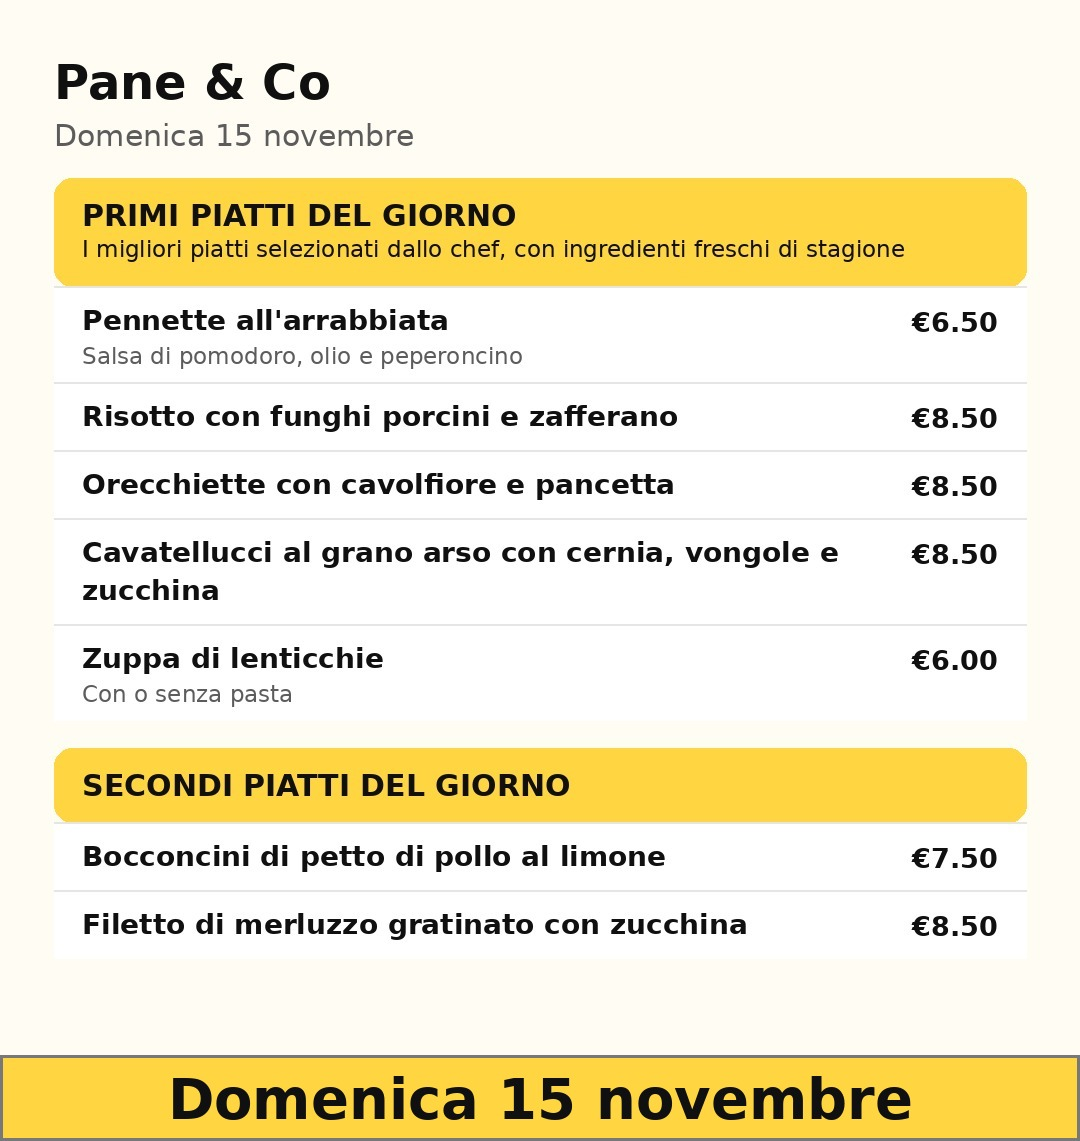
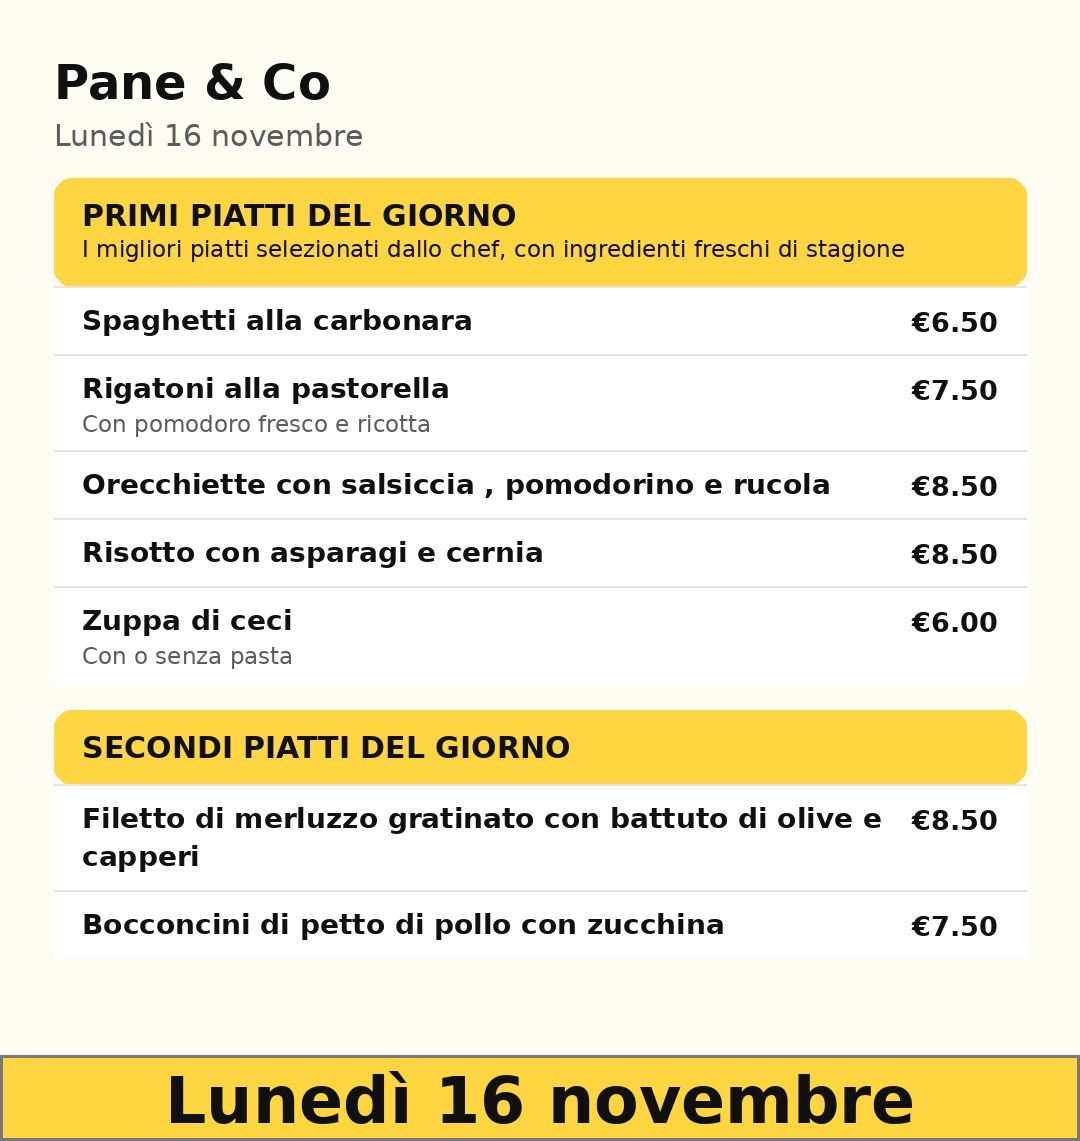
Aggiorna foto rosticcerie

diff --git a/output/rosticceria_ios/Rosticcerie.html b/output/rosticceria_ios/Rosticcerie.html
@@ -538,7 +538,7 @@
     }
   </style>
   <script>
-    const PANELS = [{"name": "Fantasia", "card_label": "Fantasia", "detail_title": "Fantasia", "logo": "../../Logo-Fantasia.jpg?v=1794762252", "phone_display": "080-405.41.39", "phone_tel": "0804054139", "image": "Fantasia.jpg?v=1794762252", "error": "", "updated": false, "updated_label": "Sabato 14 novembre", "card_reference": "14 nov", "menu_date": "2026-11-14", "url": "https://www.facebook.com/RosticceriaFantasia", "counter_enabled": true, "badge_new": false}, {"name": "Cibària", "card_label": "Cibària", "detail_title": "Cibària", "logo": "../../Logo-Cibaria.jpg?v=1794762252", "phone_display": "080-645.07.99", "phone_tel": "0806450799", "image": "Cibaria.jpg?v=1794762252", "error": "", "updated": false, "updated_label": "Giovedì 5 novembre", "card_reference": "5 nov", "menu_date": "2026-11-05", "url": "https://www.facebook.com/cibaria.asporto", "counter_enabled": true, "badge_new": false}, {"name": "Impastamò", "card_label": "Impastamò", "detail_title": "Impastamò", "logo": "../../Logo-Impastamo.jpg?v=1794762252", "phone_display": "392-536.15.36", "phone_tel": "3925361536", "image": "Impastamo.jpg?v=1794762252", "error": "", "updated": true, "updated_label": "Domenica 15 novembre", "card_reference": "08:04", "menu_date": "2026-11-15", "url": "https://www.facebook.com/profile.php?id=61560452176728", "counter_enabled": true, "badge_new": false}, {"name": "Le delizie di Michela", "card_label": "Le delizie di Michela", "detail_title": "Le delizie di Michela", "logo": "../../Logo-Michela.jpg?v=1794762252", "phone_display": "080-521.42.33", "phone_tel": "0805214233", "image": "Le_delizie_di_Michela.jpg?v=1794762252", "error": "", "updated": false, "updated_label": "Martedì 3 novembre", "card_reference": "3 nov", "menu_date": "2026-11-03", "url": "https://www.facebook.com/profile.php?id=100045208848338", "counter_enabled": true, "badge_new": false}, {"name": "Aufer", "card_label": "Aufer Gastronomia", "detail_title": "Aufer Gastronomia", "logo": "../../Logo-Aufer.jpg?v=1794762252", "phone_display": "368-38.30.313", "phone_tel": "3683830313", "image": "", "error": "Nessun menu locale importato oggi per Aufer.", "updated": false, "updated_label": "Domenica 15 novembre", "card_reference": "", "menu_date": "", "url": "https://www.instagram.com/aufergastronomia/", "counter_enabled": true, "badge_new": false}, {"name": "Santoro (Castellana)", "card_label": "Santoro (Castellana)", "detail_title": "Santoro (Castellana)", "logo": "../../Logo-Santoro.jpg?v=1794762252", "phone_display": "080-859.83.13", "phone_tel": "0808598313", "image": "Santoro__Castellana.jpg?v=1794762252", "error": "", "updated": true, "updated_label": "Domenica 15 novembre", "card_reference": "09:01", "menu_date": "2026-11-15", "url": "https://www.facebook.com/santorogastronomia", "counter_enabled": true, "badge_new": false}, {"name": "Pane & Co", "card_label": "Pane & Co", "detail_title": "Pane & Co", "logo": "../../Logo-pane.jpg?v=1794762252", "phone_display": "080-405.49.00", "phone_tel": "0804054900", "image": "Pane___Co.jpg?v=1794762252", "error": "", "updated": true, "updated_label": "Domenica 15 novembre", "card_reference": "15 nov", "menu_date": "2026-11-15", "url": "https://www.paneeco.it/menu", "counter_enabled": true, "badge_new": false}, {"name": "Bollenti piatti", "card_label": "Bollenti piatti", "detail_title": "Bollenti piatti", "logo": "../../Logo-Bollent.jpg?v=1794762252", "phone_display": "334-318.58.44", "phone_tel": "3343185844", "image": "Bollenti_piatti.jpg?v=1794762252", "error": "", "updated": false, "updated_label": "Venerdì 23 ottobre", "card_reference": "23 ott", "menu_date": "2026-10-23", "url": "https://www.facebook.com/BollentiPiatti", "counter_enabled": true, "badge_new": false}, {"name": "Suggerimenti", "card_label": "Suggerimenti", "detail_title": "Info", "phone_display": "", "phone_tel": "", "image": "Rosticcerie-Home.jpg?v=1794762252", "error": "", "updated": true, "updated_label": "Domenica 15 novembre", "url": "", "counter_enabled": false, "card_border": "#49a95c", "card_bg": "#eaf7ea", "card_name_color": "#111"}];
+    const PANELS = [{"name": "Fantasia", "card_label": "Fantasia", "detail_title": "Fantasia", "logo": "../../Logo-Fantasia.jpg?v=1794824462", "phone_display": "080-405.41.39", "phone_tel": "0804054139", "image": "Fantasia.jpg?v=1794824462", "error": "", "updated": true, "updated_label": "Lunedì 16 novembre", "card_reference": "09:16", "menu_date": "2026-11-16", "url": "https://www.facebook.com/RosticceriaFantasia", "counter_enabled": true, "badge_new": false}, {"name": "Cibària", "card_label": "Cibària", "detail_title": "Cibària", "logo": "../../Logo-Cibaria.jpg?v=1794824462", "phone_display": "080-645.07.99", "phone_tel": "0806450799", "image": "Cibaria.jpg?v=1794824462", "error": "", "updated": true, "updated_label": "Lunedì 16 novembre", "card_reference": "16 nov", "menu_date": "2026-11-16", "url": "https://www.facebook.com/cibaria.asporto", "counter_enabled": true, "badge_new": false}, {"name": "Impastamò", "card_label": "Impastamò", "detail_title": "Impastamò", "logo": "../../Logo-Impastamo.jpg?v=1794824462", "phone_display": "392-536.15.36", "phone_tel": "3925361536", "image": "Impastamo.jpg?v=1794824462", "error": "", "updated": false, "updated_label": "Domenica 15 novembre", "card_reference": "15 nov", "menu_date": "2026-11-15", "url": "https://www.facebook.com/profile.php?id=61560452176728", "counter_enabled": true, "badge_new": false}, {"name": "Le delizie di Michela", "card_label": "Le delizie di Michela", "detail_title": "Le delizie di Michela", "logo": "../../Logo-Michela.jpg?v=1794824462", "phone_display": "080-521.42.33", "phone_tel": "0805214233", "image": "Le_delizie_di_Michela.jpg?v=1794824462", "error": "", "updated": false, "updated_label": "Martedì 3 novembre", "card_reference": "3 nov", "menu_date": "2026-11-03", "url": "https://www.facebook.com/profile.php?id=100045208848338", "counter_enabled": true, "badge_new": false}, {"name": "Aufer", "card_label": "Aufer Gastronomia", "detail_title": "Aufer Gastronomia", "logo": "../../Logo-Aufer.jpg?v=1794824462", "phone_display": "368-38.30.313", "phone_tel": "3683830313", "image": "", "error": "Nessun menu locale importato oggi per Aufer.", "updated": false, "updated_label": "Lunedì 16 novembre", "card_reference": "", "menu_date": "", "url": "https://www.instagram.com/aufergastronomia/", "counter_enabled": true, "badge_new": false}, {"name": "Santoro (Castellana)", "card_label": "Santoro (Castellana)", "detail_title": "Santoro (Castellana)", "logo": "../../Logo-Santoro.jpg?v=1794824462", "phone_display": "080-859.83.13", "phone_tel": "0808598313", "image": "Santoro__Castellana.jpg?v=1794824462", "error": "", "updated": false, "updated_label": "Domenica 15 novembre", "card_reference": "15 nov", "menu_date": "2026-11-15", "url": "https://www.facebook.com/santorogastronomia", "counter_enabled": true, "badge_new": false}, {"name": "Pane & Co", "card_label": "Pane & Co", "detail_title": "Pane & Co", "logo": "../../Logo-pane.jpg?v=1794824462", "phone_display": "080-405.49.00", "phone_tel": "0804054900", "image": "Pane___Co.jpg?v=1794824462", "error": "", "updated": true, "updated_label": "Lunedì 16 novembre", "card_reference": "16 nov", "menu_date": "2026-11-16", "url": "https://www.paneeco.it/menu", "counter_enabled": true, "badge_new": false}, {"name": "Bollenti piatti", "card_label": "Bollenti piatti", "detail_title": "Bollenti piatti", "logo": "../../Logo-Bollent.jpg?v=1794824462", "phone_display": "334-318.58.44", "phone_tel": "3343185844", "image": "Bollenti_piatti.jpg?v=1794824462", "error": "", "updated": false, "updated_label": "Venerdì 23 ottobre", "card_reference": "23 ott", "menu_date": "2026-10-23", "url": "https://www.facebook.com/BollentiPiatti", "counter_enabled": true, "badge_new": false}, {"name": "Suggerimenti", "card_label": "Suggerimenti", "detail_title": "Info", "phone_display": "", "phone_tel": "", "image": "Rosticcerie-Home.jpg?v=1794824462", "error": "", "updated": true, "updated_label": "Lunedì 16 novembre", "url": "", "counter_enabled": false, "card_border": "#49a95c", "card_bg": "#eaf7ea", "card_name_color": "#111"}];
     const MAP_ADDRESSES = {"Fantasia": "Via Nicola Losavio 10, Putignano", "Bollenti piatti": "Via Noci 48, Putignano", "Pane & Co": "Viale Federico II 49, Putignano", "Cibària": "Via Estramurale a Levante 11, Putignano", "Le delizie di Michela": "Corso Umberto I 87, Putignano", "Impastamò": "Via Conversano 34, Putignano", "Santoro (Castellana)": "Via Mazzini 28, Castellana Grotte", "Aufer": "Via Estramurale a Mezzogiorno 83, Putignano"};
     const hardReloadToken = new URL(window.location.href).searchParams.get('reload');
     if (hardReloadToken) {
@@ -1915,7 +1915,7 @@
             identityLogo.alt = '';
         }
         document.getElementById('main-title').innerText = p.detail_title || p.name;
-        document.getElementById('main-updated').innerText = p.updated_label || 'Domenica 15 novembre';
+        document.getElementById('main-updated').innerText = p.updated_label || 'Lunedì 16 novembre';
         document.getElementById('main-updated').style.display = 'none';
         document.getElementById('main-signature').style.display = 'none';
         document.getElementById('nav-position').innerText = (currentIndex + 1) + '/' + n;
@@ -2256,7 +2256,7 @@
       <img id="identity-logo" src="apple-touch-icon.png" alt="Logo Rosticcerie" style="display:block" role="button" tabindex="0" onclick="toggleHomeAudio()" onkeydown="if(event.key === 'Enter' || event.key === ' ') { event.preventDefault(); toggleHomeAudio(); }">
       <div id="identity-text">
     <h1 id="main-title" onclick="handleTitleClick()">Rosticcerie</h1>
-    <p id="main-updated" class="updated" onclick="hardRefreshPage()">Domenica 15 novembre</p>
+    <p id="main-updated" class="updated" onclick="hardRefreshPage()">Lunedì 16 novembre</p>
     <p id="main-signature" class="signature" onclick="hardRefreshPage()">by Mazzarisi</p>
         <div id="phone-line"></div>
       </div>
@@ -2270,21 +2270,21 @@
 
   <main id="grid-view">
     
-        <button type="button" class="card" data-pid="0" style="border-color:#ffffff;background-color:#ffffff" onclick="handleCardClick(0)">
+        <button type="button" class="card" data-pid="0" style="border-color:#ffd641;background-color:#fff7de" onclick="handleCardClick(0)">
             <span class="card-name" style="color:#111">Fantasia</span>
-            <span class="card-reference">14 nov</span>
+            <span class="card-reference">09:16</span>
             <span class="card-counter" id="card-counter-0"></span>
         </button>
         
-        <button type="button" class="card" data-pid="1" style="border-color:#ffffff;background-color:#ffffff" onclick="handleCardClick(1)">
+        <button type="button" class="card" data-pid="1" style="border-color:#ffd641;background-color:#fff7de" onclick="handleCardClick(1)">
             <span class="card-name" style="color:#111">Cibària</span>
-            <span class="card-reference">5 nov</span>
+            <span class="card-reference">16 nov</span>
             <span class="card-counter" id="card-counter-1"></span>
         </button>
         
-        <button type="button" class="card" data-pid="2" style="border-color:#ffd641;background-color:#fff7de" onclick="handleCardClick(2)">
+        <button type="button" class="card" data-pid="2" style="border-color:#ffffff;background-color:#ffffff" onclick="handleCardClick(2)">
             <span class="card-name" style="color:#111">Impastamò</span>
-            <span class="card-reference">08:04</span>
+            <span class="card-reference">15 nov</span>
             <span class="card-counter" id="card-counter-2"></span>
         </button>
         
@@ -2300,15 +2300,15 @@
             <span class="card-counter" id="card-counter-4"></span>
         </button>
         
-        <button type="button" class="card" data-pid="5" style="border-color:#ffd641;background-color:#fff7de" onclick="handleCardClick(5)">
+        <button type="button" class="card" data-pid="5" style="border-color:#ffffff;background-color:#ffffff" onclick="handleCardClick(5)">
             <span class="card-name" style="color:#111">Santoro (Castellana)</span>
-            <span class="card-reference">09:01</span>
+            <span class="card-reference">15 nov</span>
             <span class="card-counter" id="card-counter-5"></span>
         </button>
         
         <button type="button" class="card" data-pid="6" style="border-color:#ffd641;background-color:#fff7de" onclick="handleCardClick(6)">
             <span class="card-name" style="color:#111">Pane &amp; Co</span>
-            <span class="card-reference">15 nov</span>
+            <span class="card-reference">16 nov</span>
             <span class="card-counter" id="card-counter-6"></span>
         </button>
         

diff --git a/output/rosticceria_ios/index.html b/output/rosticceria_ios/index.html
@@ -538,7 +538,7 @@
     }
   </style>
   <script>
-    const PANELS = [{"name": "Fantasia", "card_label": "Fantasia", "detail_title": "Fantasia", "logo": "../../Logo-Fantasia.jpg?v=1794762252", "phone_display": "080-405.41.39", "phone_tel": "0804054139", "image": "Fantasia.jpg?v=1794762252", "error": "", "updated": false, "updated_label": "Sabato 14 novembre", "card_reference": "14 nov", "menu_date": "2026-11-14", "url": "https://www.facebook.com/RosticceriaFantasia", "counter_enabled": true, "badge_new": false}, {"name": "Cibària", "card_label": "Cibària", "detail_title": "Cibària", "logo": "../../Logo-Cibaria.jpg?v=1794762252", "phone_display": "080-645.07.99", "phone_tel": "0806450799", "image": "Cibaria.jpg?v=1794762252", "error": "", "updated": false, "updated_label": "Giovedì 5 novembre", "card_reference": "5 nov", "menu_date": "2026-11-05", "url": "https://www.facebook.com/cibaria.asporto", "counter_enabled": true, "badge_new": false}, {"name": "Impastamò", "card_label": "Impastamò", "detail_title": "Impastamò", "logo": "../../Logo-Impastamo.jpg?v=1794762252", "phone_display": "392-536.15.36", "phone_tel": "3925361536", "image": "Impastamo.jpg?v=1794762252", "error": "", "updated": true, "updated_label": "Domenica 15 novembre", "card_reference": "08:04", "menu_date": "2026-11-15", "url": "https://www.facebook.com/profile.php?id=61560452176728", "counter_enabled": true, "badge_new": false}, {"name": "Le delizie di Michela", "card_label": "Le delizie di Michela", "detail_title": "Le delizie di Michela", "logo": "../../Logo-Michela.jpg?v=1794762252", "phone_display": "080-521.42.33", "phone_tel": "0805214233", "image": "Le_delizie_di_Michela.jpg?v=1794762252", "error": "", "updated": false, "updated_label": "Martedì 3 novembre", "card_reference": "3 nov", "menu_date": "2026-11-03", "url": "https://www.facebook.com/profile.php?id=100045208848338", "counter_enabled": true, "badge_new": false}, {"name": "Aufer", "card_label": "Aufer Gastronomia", "detail_title": "Aufer Gastronomia", "logo": "../../Logo-Aufer.jpg?v=1794762252", "phone_display": "368-38.30.313", "phone_tel": "3683830313", "image": "", "error": "Nessun menu locale importato oggi per Aufer.", "updated": false, "updated_label": "Domenica 15 novembre", "card_reference": "", "menu_date": "", "url": "https://www.instagram.com/aufergastronomia/", "counter_enabled": true, "badge_new": false}, {"name": "Santoro (Castellana)", "card_label": "Santoro (Castellana)", "detail_title": "Santoro (Castellana)", "logo": "../../Logo-Santoro.jpg?v=1794762252", "phone_display": "080-859.83.13", "phone_tel": "0808598313", "image": "Santoro__Castellana.jpg?v=1794762252", "error": "", "updated": true, "updated_label": "Domenica 15 novembre", "card_reference": "09:01", "menu_date": "2026-11-15", "url": "https://www.facebook.com/santorogastronomia", "counter_enabled": true, "badge_new": false}, {"name": "Pane & Co", "card_label": "Pane & Co", "detail_title": "Pane & Co", "logo": "../../Logo-pane.jpg?v=1794762252", "phone_display": "080-405.49.00", "phone_tel": "0804054900", "image": "Pane___Co.jpg?v=1794762252", "error": "", "updated": true, "updated_label": "Domenica 15 novembre", "card_reference": "15 nov", "menu_date": "2026-11-15", "url": "https://www.paneeco.it/menu", "counter_enabled": true, "badge_new": false}, {"name": "Bollenti piatti", "card_label": "Bollenti piatti", "detail_title": "Bollenti piatti", "logo": "../../Logo-Bollent.jpg?v=1794762252", "phone_display": "334-318.58.44", "phone_tel": "3343185844", "image": "Bollenti_piatti.jpg?v=1794762252", "error": "", "updated": false, "updated_label": "Venerdì 23 ottobre", "card_reference": "23 ott", "menu_date": "2026-10-23", "url": "https://www.facebook.com/BollentiPiatti", "counter_enabled": true, "badge_new": false}, {"name": "Suggerimenti", "card_label": "Suggerimenti", "detail_title": "Info", "phone_display": "", "phone_tel": "", "image": "Rosticcerie-Home.jpg?v=1794762252", "error": "", "updated": true, "updated_label": "Domenica 15 novembre", "url": "", "counter_enabled": false, "card_border": "#49a95c", "card_bg": "#eaf7ea", "card_name_color": "#111"}];
+    const PANELS = [{"name": "Fantasia", "card_label": "Fantasia", "detail_title": "Fantasia", "logo": "../../Logo-Fantasia.jpg?v=1794824462", "phone_display": "080-405.41.39", "phone_tel": "0804054139", "image": "Fantasia.jpg?v=1794824462", "error": "", "updated": true, "updated_label": "Lunedì 16 novembre", "card_reference": "09:16", "menu_date": "2026-11-16", "url": "https://www.facebook.com/RosticceriaFantasia", "counter_enabled": true, "badge_new": false}, {"name": "Cibària", "card_label": "Cibària", "detail_title": "Cibària", "logo": "../../Logo-Cibaria.jpg?v=1794824462", "phone_display": "080-645.07.99", "phone_tel": "0806450799", "image": "Cibaria.jpg?v=1794824462", "error": "", "updated": true, "updated_label": "Lunedì 16 novembre", "card_reference": "16 nov", "menu_date": "2026-11-16", "url": "https://www.facebook.com/cibaria.asporto", "counter_enabled": true, "badge_new": false}, {"name": "Impastamò", "card_label": "Impastamò", "detail_title": "Impastamò", "logo": "../../Logo-Impastamo.jpg?v=1794824462", "phone_display": "392-536.15.36", "phone_tel": "3925361536", "image": "Impastamo.jpg?v=1794824462", "error": "", "updated": false, "updated_label": "Domenica 15 novembre", "card_reference": "15 nov", "menu_date": "2026-11-15", "url": "https://www.facebook.com/profile.php?id=61560452176728", "counter_enabled": true, "badge_new": false}, {"name": "Le delizie di Michela", "card_label": "Le delizie di Michela", "detail_title": "Le delizie di Michela", "logo": "../../Logo-Michela.jpg?v=1794824462", "phone_display": "080-521.42.33", "phone_tel": "0805214233", "image": "Le_delizie_di_Michela.jpg?v=1794824462", "error": "", "updated": false, "updated_label": "Martedì 3 novembre", "card_reference": "3 nov", "menu_date": "2026-11-03", "url": "https://www.facebook.com/profile.php?id=100045208848338", "counter_enabled": true, "badge_new": false}, {"name": "Aufer", "card_label": "Aufer Gastronomia", "detail_title": "Aufer Gastronomia", "logo": "../../Logo-Aufer.jpg?v=1794824462", "phone_display": "368-38.30.313", "phone_tel": "3683830313", "image": "", "error": "Nessun menu locale importato oggi per Aufer.", "updated": false, "updated_label": "Lunedì 16 novembre", "card_reference": "", "menu_date": "", "url": "https://www.instagram.com/aufergastronomia/", "counter_enabled": true, "badge_new": false}, {"name": "Santoro (Castellana)", "card_label": "Santoro (Castellana)", "detail_title": "Santoro (Castellana)", "logo": "../../Logo-Santoro.jpg?v=1794824462", "phone_display": "080-859.83.13", "phone_tel": "0808598313", "image": "Santoro__Castellana.jpg?v=1794824462", "error": "", "updated": false, "updated_label": "Domenica 15 novembre", "card_reference": "15 nov", "menu_date": "2026-11-15", "url": "https://www.facebook.com/santorogastronomia", "counter_enabled": true, "badge_new": false}, {"name": "Pane & Co", "card_label": "Pane & Co", "detail_title": "Pane & Co", "logo": "../../Logo-pane.jpg?v=1794824462", "phone_display": "080-405.49.00", "phone_tel": "0804054900", "image": "Pane___Co.jpg?v=1794824462", "error": "", "updated": true, "updated_label": "Lunedì 16 novembre", "card_reference": "16 nov", "menu_date": "2026-11-16", "url": "https://www.paneeco.it/menu", "counter_enabled": true, "badge_new": false}, {"name": "Bollenti piatti", "card_label": "Bollenti piatti", "detail_title": "Bollenti piatti", "logo": "../../Logo-Bollent.jpg?v=1794824462", "phone_display": "334-318.58.44", "phone_tel": "3343185844", "image": "Bollenti_piatti.jpg?v=1794824462", "error": "", "updated": false, "updated_label": "Venerdì 23 ottobre", "card_reference": "23 ott", "menu_date": "2026-10-23", "url": "https://www.facebook.com/BollentiPiatti", "counter_enabled": true, "badge_new": false}, {"name": "Suggerimenti", "card_label": "Suggerimenti", "detail_title": "Info", "phone_display": "", "phone_tel": "", "image": "Rosticcerie-Home.jpg?v=1794824462", "error": "", "updated": true, "updated_label": "Lunedì 16 novembre", "url": "", "counter_enabled": false, "card_border": "#49a95c", "card_bg": "#eaf7ea", "card_name_color": "#111"}];
     const MAP_ADDRESSES = {"Fantasia": "Via Nicola Losavio 10, Putignano", "Bollenti piatti": "Via Noci 48, Putignano", "Pane & Co": "Viale Federico II 49, Putignano", "Cibària": "Via Estramurale a Levante 11, Putignano", "Le delizie di Michela": "Corso Umberto I 87, Putignano", "Impastamò": "Via Conversano 34, Putignano", "Santoro (Castellana)": "Via Mazzini 28, Castellana Grotte", "Aufer": "Via Estramurale a Mezzogiorno 83, Putignano"};
     const hardReloadToken = new URL(window.location.href).searchParams.get('reload');
     if (hardReloadToken) {
@@ -1915,7 +1915,7 @@
             identityLogo.alt = '';
         }
         document.getElementById('main-title').innerText = p.detail_title || p.name;
-        document.getElementById('main-updated').innerText = p.updated_label || 'Domenica 15 novembre';
+        document.getElementById('main-updated').innerText = p.updated_label || 'Lunedì 16 novembre';
         document.getElementById('main-updated').style.display = 'none';
         document.getElementById('main-signature').style.display = 'none';
         document.getElementById('nav-position').innerText = (currentIndex + 1) + '/' + n;
@@ -2256,7 +2256,7 @@
       <img id="identity-logo" src="apple-touch-icon.png" alt="Logo Rosticcerie" style="display:block" role="button" tabindex="0" onclick="toggleHomeAudio()" onkeydown="if(event.key === 'Enter' || event.key === ' ') { event.preventDefault(); toggleHomeAudio(); }">
       <div id="identity-text">
     <h1 id="main-title" onclick="handleTitleClick()">Rosticcerie</h1>
-    <p id="main-updated" class="updated" onclick="hardRefreshPage()">Domenica 15 novembre</p>
+    <p id="main-updated" class="updated" onclick="hardRefreshPage()">Lunedì 16 novembre</p>
     <p id="main-signature" class="signature" onclick="hardRefreshPage()">by Mazzarisi</p>
         <div id="phone-line"></div>
       </div>
@@ -2270,21 +2270,21 @@
 
   <main id="grid-view">
     
-        <button type="button" class="card" data-pid="0" style="border-color:#ffffff;background-color:#ffffff" onclick="handleCardClick(0)">
+        <button type="button" class="card" data-pid="0" style="border-color:#ffd641;background-color:#fff7de" onclick="handleCardClick(0)">
             <span class="card-name" style="color:#111">Fantasia</span>
-            <span class="card-reference">14 nov</span>
+            <span class="card-reference">09:16</span>
             <span class="card-counter" id="card-counter-0"></span>
         </button>
         
-        <button type="button" class="card" data-pid="1" style="border-color:#ffffff;background-color:#ffffff" onclick="handleCardClick(1)">
+        <button type="button" class="card" data-pid="1" style="border-color:#ffd641;background-color:#fff7de" onclick="handleCardClick(1)">
             <span class="card-name" style="color:#111">Cibària</span>
-            <span class="card-reference">5 nov</span>
+            <span class="card-reference">16 nov</span>
             <span class="card-counter" id="card-counter-1"></span>
         </button>
         
-        <button type="button" class="card" data-pid="2" style="border-color:#ffd641;background-color:#fff7de" onclick="handleCardClick(2)">
+        <button type="button" class="card" data-pid="2" style="border-color:#ffffff;background-color:#ffffff" onclick="handleCardClick(2)">
             <span class="card-name" style="color:#111">Impastamò</span>
-            <span class="card-reference">08:04</span>
+            <span class="card-reference">15 nov</span>
             <span class="card-counter" id="card-counter-2"></span>
         </button>
         
@@ -2300,15 +2300,15 @@
             <span class="card-counter" id="card-counter-4"></span>
         </button>
         
-        <button type="button" class="card" data-pid="5" style="border-color:#ffd641;background-color:#fff7de" onclick="handleCardClick(5)">
+        <button type="button" class="card" data-pid="5" style="border-color:#ffffff;background-color:#ffffff" onclick="handleCardClick(5)">
             <span class="card-name" style="color:#111">Santoro (Castellana)</span>
-            <span class="card-reference">09:01</span>
+            <span class="card-reference">15 nov</span>
             <span class="card-counter" id="card-counter-5"></span>
         </button>
         
         <button type="button" class="card" data-pid="6" style="border-color:#ffd641;background-color:#fff7de" onclick="handleCardClick(6)">
             <span class="card-name" style="color:#111">Pane &amp; Co</span>
-            <span class="card-reference">15 nov</span>
+            <span class="card-reference">16 nov</span>
             <span class="card-counter" id="card-counter-6"></span>
         </button>
         
